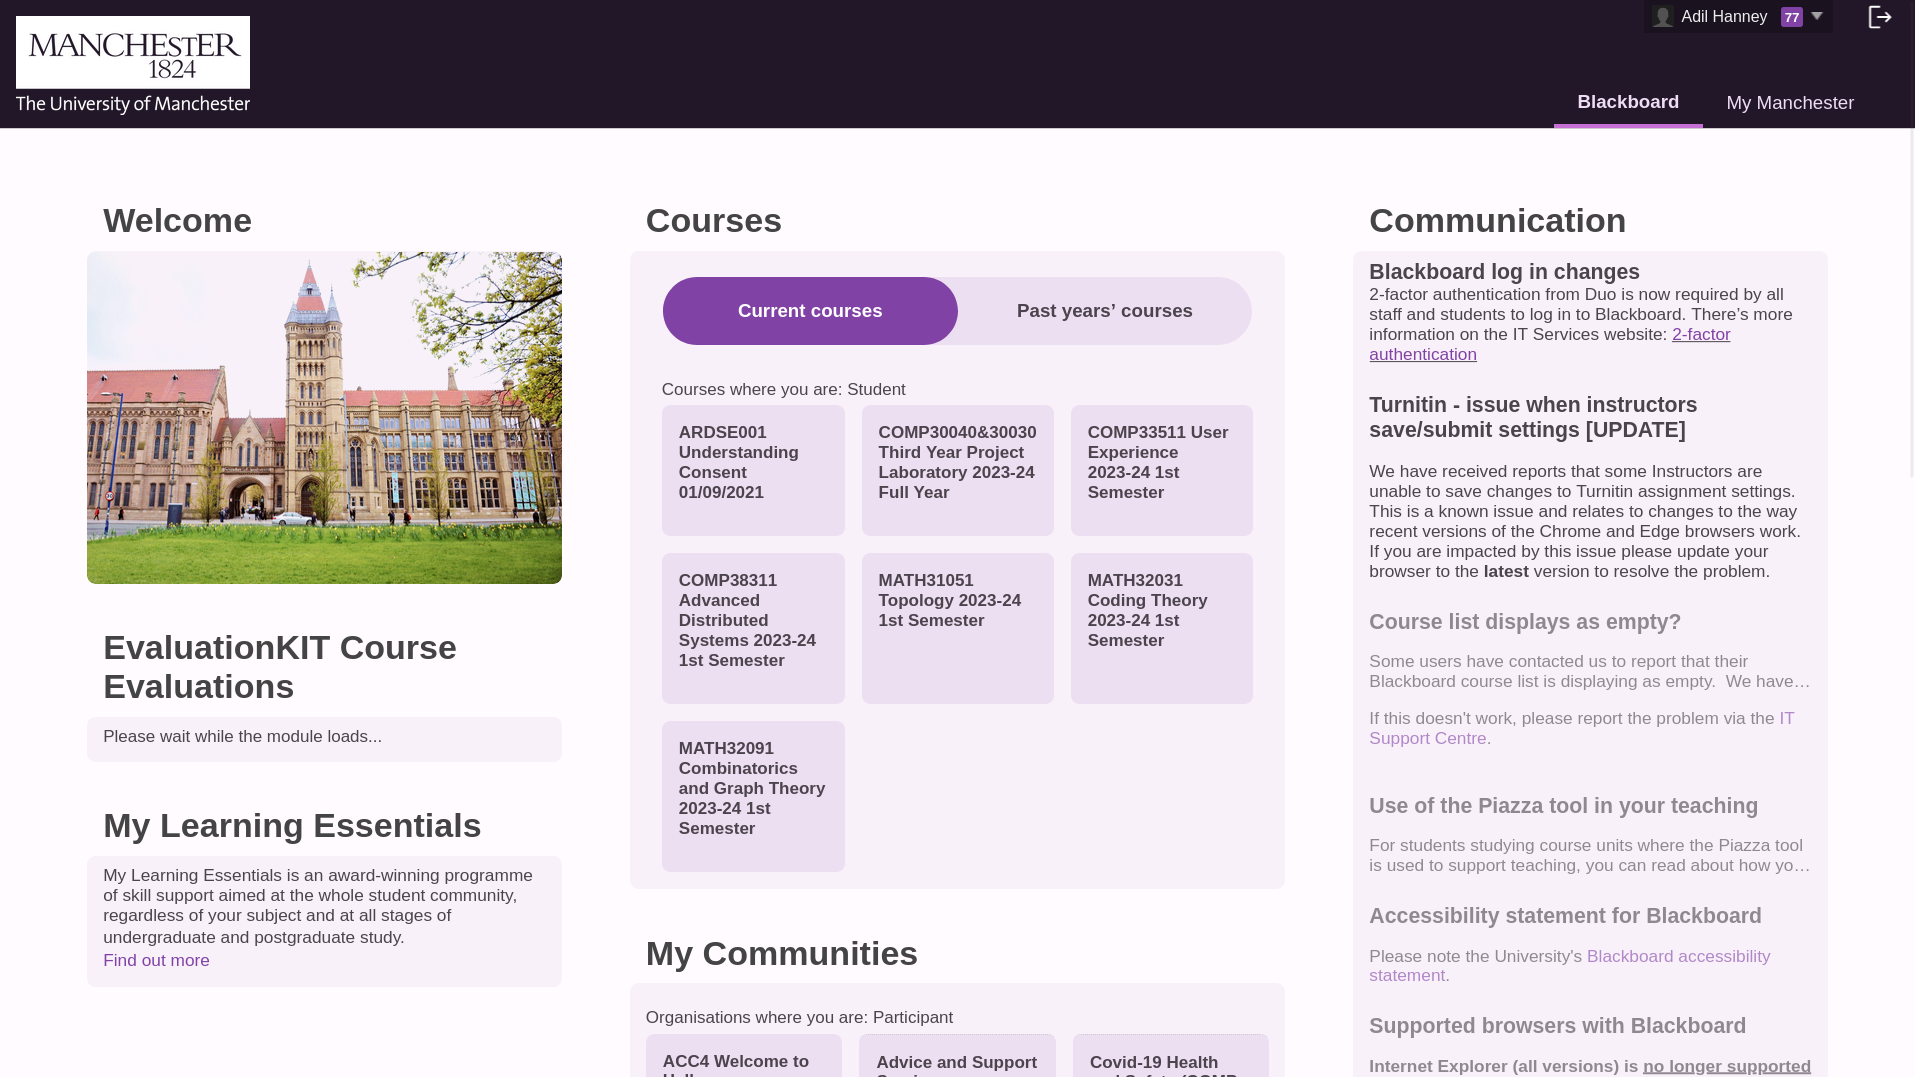
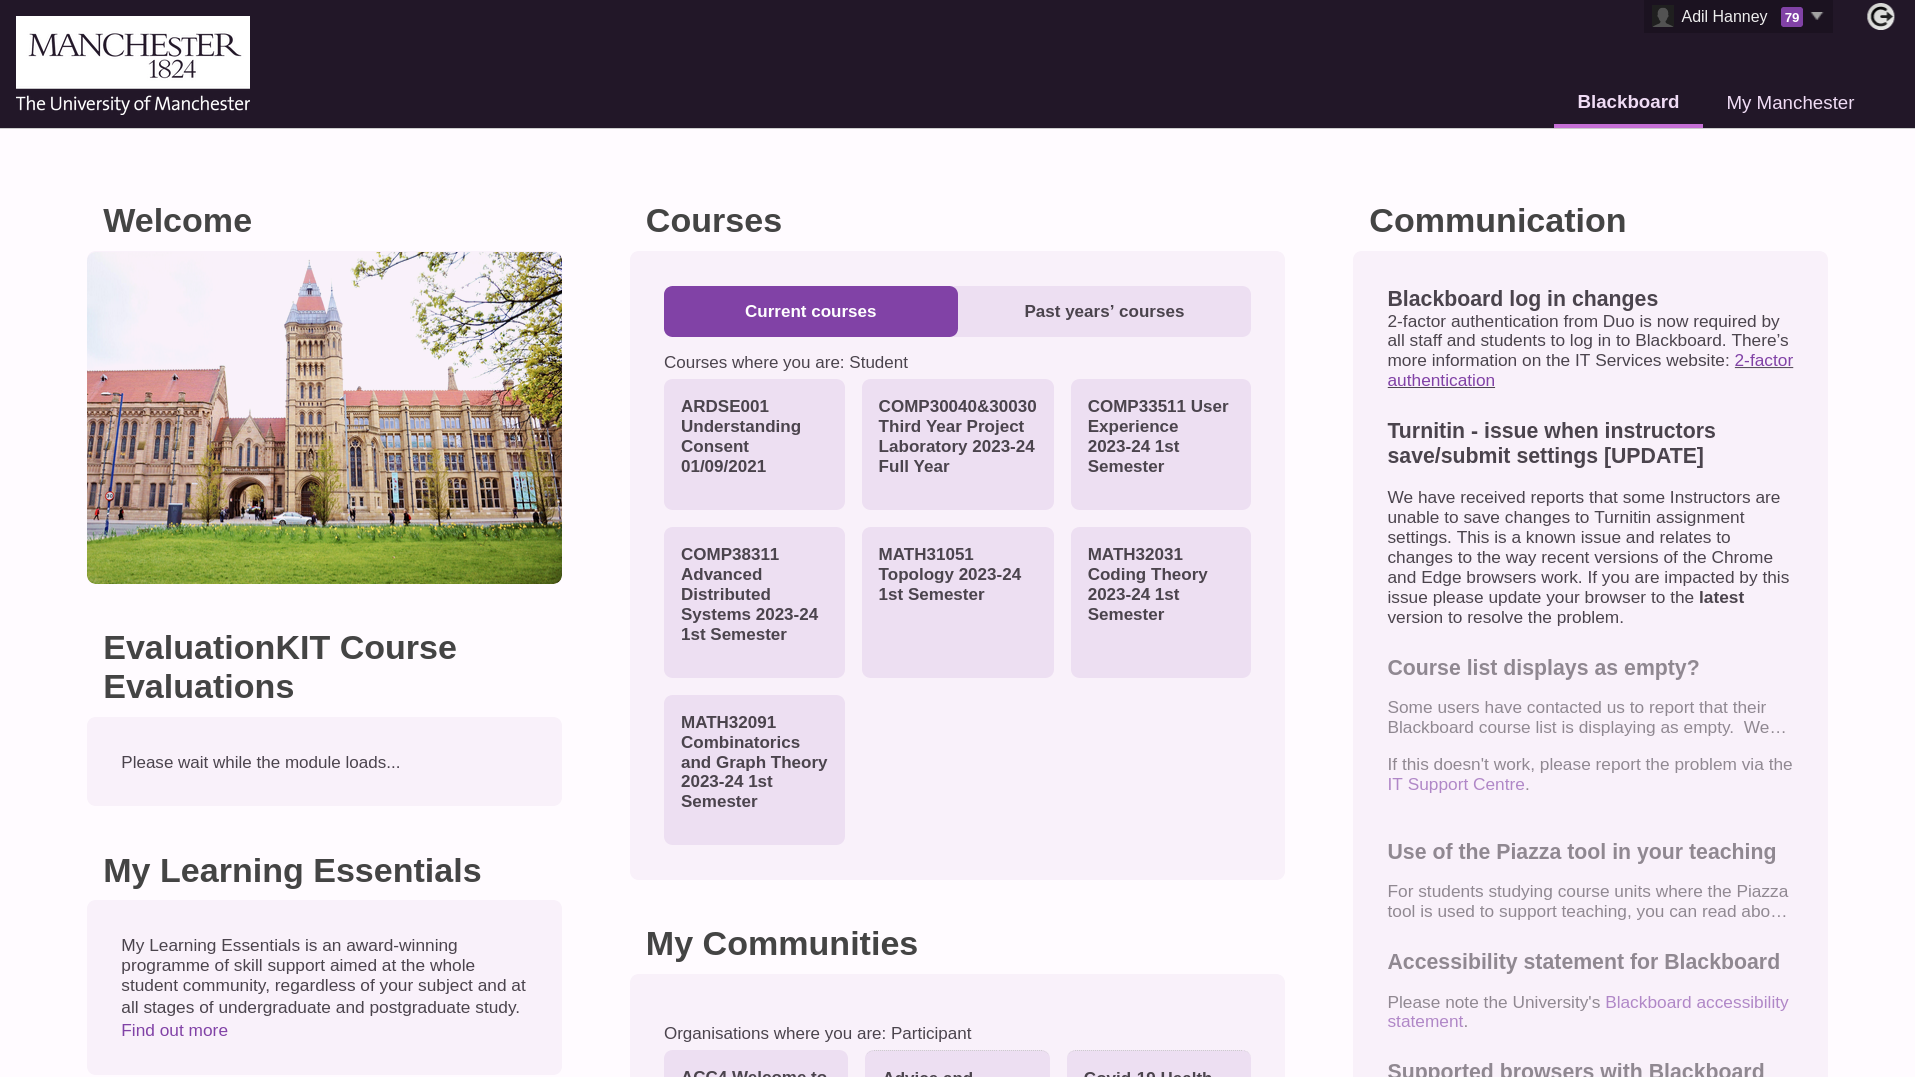
chore: update CHANGELOG and screenshot

diff --git a/CHANGELOG.md b/CHANGELOG.md
@@ -6,6 +6,8 @@ Here I will outline the changes I've made over time...
 
 - Fixed video popup menus always being hoverable
 - Hidden the "Download Subtitles and Transcription" button from videos
+- Used less-rounded corners on the Blackboard course tabs
+- Fixed inconsistent spacing on the Blackboard homepage
 
 ### 20231105
 
